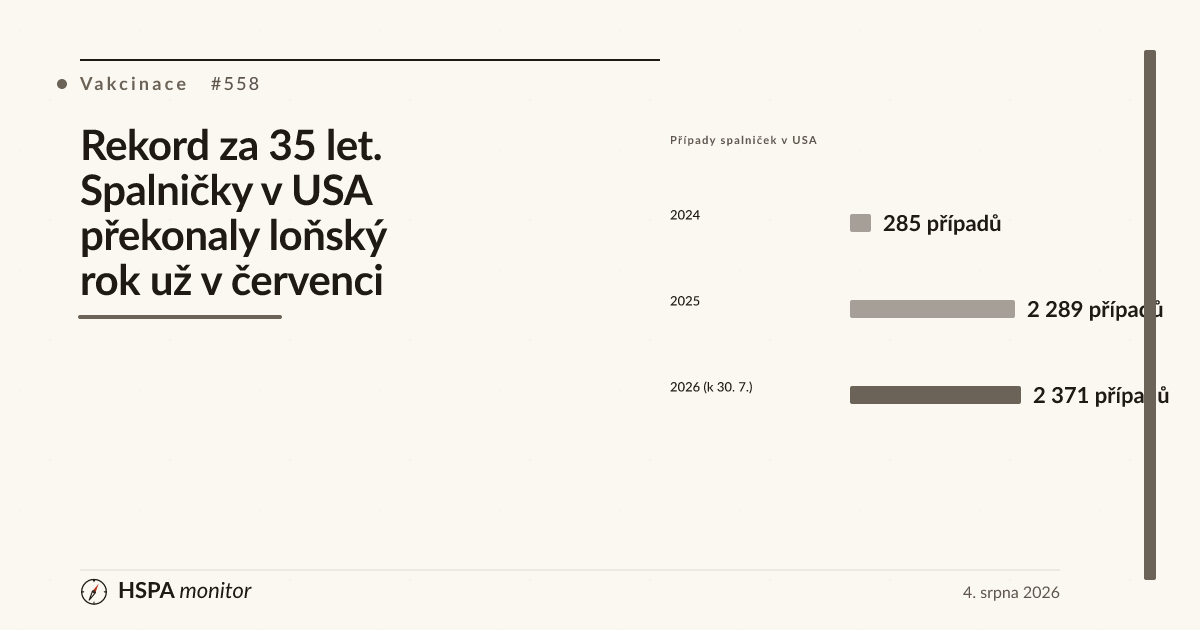
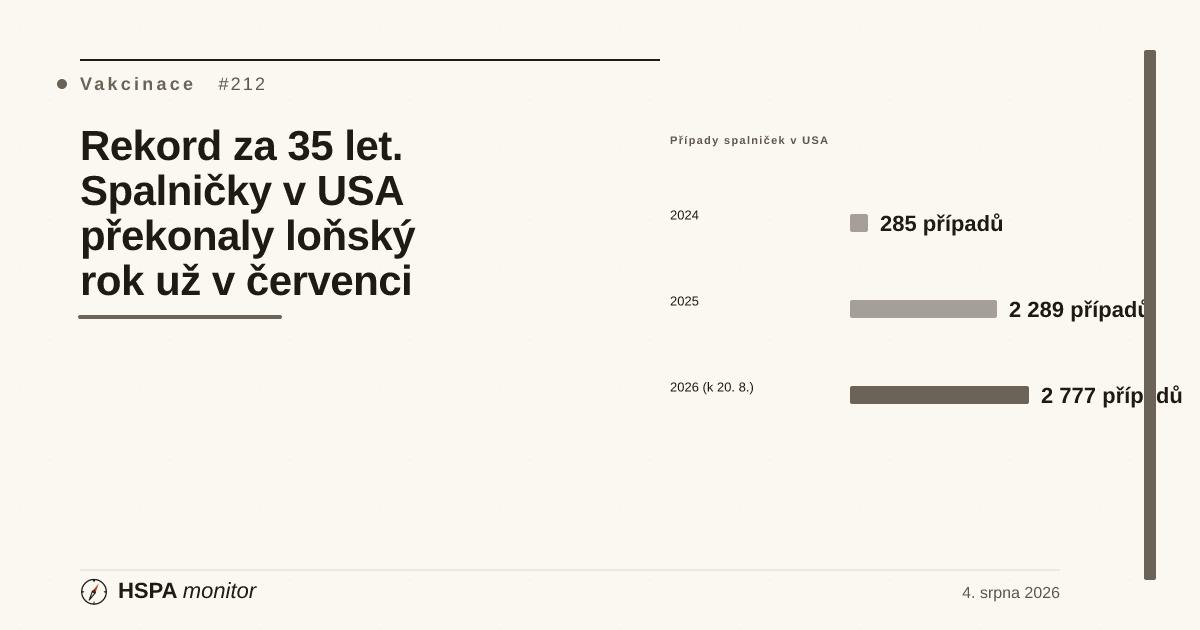
fix(clanky): noční revize spalnicky-usa-2026 — nová vlna dat CDC (2 566 → 2 777)
FÁZE 3.2. Primární zdroj: CDC, Measles Cases and Outbreaks
(cdc.gov/measles/data-research, staženo 23. 8. 2026, hlavička
"Updated: August 21, 2026"). Doslovně: "As of August 20, 2026, 2,777
confirmed* measles cases were reported in the United States in 2026",
"2,761 measles cases were reported by 47 jurisdictions", "36 new
outbreaks** reported in 2026, and 94% of confirmed cases (2,614 of 2,777)
are outbreak-associated (1,239 from outbreaks starting in 2026 and 1,375
from outbreaks that started in 2025)".

Změněno proti stavu k 13. 8. 2026: 2 566 → 2 777 případů; 2 550 → 2 761
hlášeno jurisdikcemi; 38 → 36 ohnisek; 2 407/2 566 → 2 614/2 777.
Pokles počtu ohnisek je zpětná revize kumulativního počtu CDC, ne pokles
nákazy — v textu je to explicitně vysvětleno, aby to nevyznělo obráceně.
Nově doplněn rozpad ohniskových případů podle roku vzniku ohniska.

Srovnáno: meta description, og:description, JSON-LD, perex, av-counter,
obě figure-note, řádek tabulky, věta v historické perspektivě, blok Zdroje;
cover přegenerován. Beze změny: 47 jurisdikcí, 16 zahraničních návštěvníků,
titulek, 2025 = 2 289, proočkovanost 92,5 %, kanadská, evropská i česká data.

audit-status zůstává review-pending, published zůstává true.

Claude-Session: https://claude.ai/code/session_017Qd712dcLe1ZaJTNRWL23A

diff --git a/05_M1_Starter/clanek-spalnicky-usa-2026.html b/05_M1_Starter/clanek-spalnicky-usa-2026.html
@@ -3,9 +3,10 @@
 <head>
 <!--
   audit:
-    last_reviewed: 2026-08-20
+    last_reviewed: 2026-08-23
     reviewer: claude-code-agent
     status: review-pending
+    nightly_2026-08-23: "NOČNÍ REVIZE (FÁZE 3.2) — nová vlna dat CDC. ZDROJ (primární): CDC, Measles Cases and Outbreaks (https://www.cdc.gov/measles/data-research/index.html, staženo 23. 8. 2026, hlavička „Updated: August 21, 2026\"). Doslovně: 'As of August 20, 2026, 2,777 confirmed* measles cases were reported in the United States in 2026.' — 'Among these, 2,761 measles cases were reported by 47 jurisdictions' + 'A total of 16 measles cases were reported among international visitors' — 'There have been 36 new outbreaks** reported in 2026, and 94% of confirmed cases (2,614 of 2,777) are outbreak-associated (1,239 from outbreaks starting in 2026 and 1,375 from outbreaks that started in 2025)'. ZMĚNĚNO proti stavu k 13. 8. 2026: 2 566 → 2 777 případů; 2 550 → 2 761 hlášeno jurisdikcemi; 38 → 36 ohnisek (CDC kumulativní počet revidoval DOLŮ — v textu explicitně vysvětleno jako zpětná revize, nikoli jako pokles nákazy); 2 407/2 566 → 2 614/2 777 při nezměněných 94 %; nově doplněn rozpad ohniskových případů 1 239 (ohniska 2026) / 1 375 (ohniska 2025). Srovnáno: meta description, og:description, JSON-LD description, perex, av-counter (data-value i popisek), obě figure-note, řádek tabulky, věta v historické perspektivě („dva a půl tisíce\" → „necelé tři tisíce\"), blok Zdroje; dále perex a cover_viz v data/articles.json (max osy 2500 → 2800, aby sloupec 2 777 nepřetékal) a claim spalnicky-usa-2026--01 v data/claims.json; cover přegenerován. NEZMĚNĚNO: 47 jurisdikcí a 16 zahraničních návštěvníků (beze změny), titulek, 2025 = 2 289, proočkovanost 92,5 %, kanadská, evropská i česká data — u těch se zdroj nezměnil. Pozn. k síti: cdc.gov odmítá curl (Akamai), načteno přes WebFetch; kontrolní dotaz na doslovné znění proveden zvlášť a čísla se shodovala. Status review-pending, published zůstává true."
     nightly_2026-08-20: "NOČNÍ REVIZE (FÁZE 3.1) — date-passed (13. 8. 2026). ZDROJ (primární): CDC, Measles Cases and Outbreaks (https://www.cdc.gov/measles/data-research/index.html, kontrola 20. 8. 2026). VÝSLEDEK: beze změny — stránka stále uvádí doslova „As of August 13, 2026, 2,566 confirmed* measles cases were reported in the United States in 2026\", 38 nových ohnisek a 94 % případů (2 407 z 2 566) vázaných na ohnisko; hlavička nese „Updated: August 14, 2026\" a poznámku, že se data aktualizují k poledni ve čtvrtek. Datum 13. 8. v článku tedy není zastaralý údaj, ale poslední publikovaný stav zdroje. ZMĚNĚNO: pouze doplněno datum re-verifikace do figure-note. NEZMĚNĚNO: žádné číslo ani formulace. Status zůstává review-pending."
     created_at: 2026-08-03
     nightly_2026-08-17: "NOČNÍ REVIZE (FÁZE 3.2) — aktualizace centrálního KPI proti primárnímu zdroji. CDC, Measles Cases and Outbreaks (cdc.gov/measles/data-research, staženo 17. 8. 2026) uvádí doslovně: 'As of August 13, 2026, 2,566 confirmed* measles cases were reported in the United States in 2026.' — 'Among these, 2,550 measles cases were reported by 47 jurisdictions' — 'There have been 38 new outbreaks** reported in 2026' — '94% of confirmed cases (2,407 of 2,566) are outbreak-associated'. ZMĚNĚNO proti stavu k 30. 7. 2026: 2 371 → 2 566 případů; 45 → 47 jurisdikcí (nově explicitně 2 550 hlášeno jurisdikcemi + 16 zahraničních návštěvníků); 37 → 38 ohnisek; 94 % z 2 219/2 371 → 2 407/2 566. Srovnáno na všech místech: meta description, og:description, JSON-LD description, perex, av-counter (data-value i popisek), obě figure-note, řádek tabulky '2026 (k 13. 8.)', věta v historické perspektivě, blok Zdroje; dále perex a cover_viz v data/articles.json a claim spalnicky-usa-2026--01 v data/claims.json. NEZMĚNĚNO: titulek ('překonaly loňský rok už v červenci' platí dál — rekord 2 289 padl v červenci), 2025 = 2 289, proočkovanost 92,5 %, ohniska Jižní Karolína/Utah/Texas, kanadská a evropská čísla, česká data — u těch se zdroj nezměnil. Údaj za 2026 zůstává průběžný (year-to-date) a podléhá zpětné revizi CDC. Pozn. k síti: cdc.gov odmítá curl (Akamai 'Access Denied'), načteno přes WebFetch; kontrolní dotaz na doslovné citace proveden zvlášť a čísla se shodovala. Status review-pending, published zůstává true."
@@ -30,11 +31,11 @@
 <meta charset="UTF-8">
 <meta name="viewport" content="width=device-width, initial-scale=1.0">
 <title>Rekord za 35 let. Spalničky v USA překonaly loňský rok už v červenci · HSPA Monitor</title>
-<meta name="description" content="K 13. srpnu 2026 evidují USA 2 566 potvrzených případů spalniček — víc než za celý loňský rok a nejvíc od roku 1991. Proočkovanost MMR u předškoláků klesla na 92,5 %, práh kolektivní imunity je 95 %. Kanada už status eliminace ztratila. Co z toho plyne pro Evropu a Česko.">
+<meta name="description" content="K 20. srpnu 2026 evidují USA 2 777 potvrzených případů spalniček — víc než za celý loňský rok a nejvíc od roku 1991. Proočkovanost MMR u předškoláků klesla na 92,5 %, práh kolektivní imunity je 95 %. Kanada už status eliminace ztratila. Co z toho plyne pro Evropu a Česko.">
 <meta name="robots" content="index, follow">
 <meta property="og:type" content="article">
 <meta property="og:title" content="Rekord za 35 let. Spalničky v USA překonaly loňský rok už v červenci">
-<meta property="og:description" content="2 566 případů k 13. 8. 2026 — nejvíc od roku 1991. Proočkovanost 92,5 % proti prahu 95 %. Kanada ztratila status eliminace, USA o něm rozhodují na podzim. Co to znamená pro Česko.">
+<meta property="og:description" content="2 777 případů k 20. 8. 2026 — nejvíc od roku 1991. Proočkovanost 92,5 % proti prahu 95 %. Kanada ztratila status eliminace, USA o něm rozhodují na podzim. Co to znamená pro Česko.">
 <meta property="og:locale" content="cs_CZ">
 <meta property="article:published_time" content="2026-08-04">
 <meta property="article:section" content="Prevence">
@@ -60,7 +61,7 @@
       "@type": "NewsArticle",
       "@id": "https://skorezdravotnictvi.cz/clanek-spalnicky-usa-2026#article",
       "headline": "Rekord za 35 let. Spalničky v USA překonaly loňský rok už v červenci",
-      "description": "K 13. srpnu 2026 evidují USA 2 566 potvrzených případů spalniček — víc než za celý loňský rok a nejvíc od roku 1991. Proočkovanost MMR u předškoláků klesla na 92,5 % proti prahu kolektivní imunity 95 %. Kanada status eliminace už ztratila, Spojené státy o něm rozhodnou v listopadu. Co z toho plyne pro Evropu a pro Česko, kde druhá dávka MMR hranice 95 % nikdy nedosáhla.",
+      "description": "K 20. srpnu 2026 evidují USA 2 777 potvrzených případů spalniček — víc než za celý loňský rok a nejvíc od roku 1991. Proočkovanost MMR u předškoláků klesla na 92,5 % proti prahu kolektivní imunity 95 %. Kanada status eliminace už ztratila, Spojené státy o něm rozhodnou v listopadu. Co z toho plyne pro Evropu a pro Česko, kde druhá dávka MMR hranice 95 % nikdy nedosáhla.",
       "inLanguage": "cs-CZ",
       "image": [
         "https://skorezdravotnictvi.cz/assets/covers/clanek-spalnicky-usa-2026.png"
@@ -149,7 +150,7 @@
       </div>
       <h1 class="article-title">Rekord za 35 let. Spalničky v USA překonaly loňský rok už v červenci</h1>
       <p class="article-deck">
-        Spojené státy evidovaly k <strong>13. srpnu 2026</strong> podle amerického Střediska pro kontrolu a prevenci nemocí (CDC) <strong>2 566 potvrzených případů spalniček</strong>. Loňský celoroční rekord 2 289 případů tak padl ještě před koncem července — a jde o nejvyšší roční číslo od roku 1991. Souvislost není záhadná: proočkovanost dětí vakcínou MMR před nástupem do školy klesla na <strong>92,5 %</strong>, zatímco práh, pod kterým spalničky začnou nacházet neimunní hostitele, leží na <strong>95 %</strong>. Kanada kvůli témuž status „země bez spalniček" už loni v listopadu ztratila. Text shrnuje, co je doloženo, kde je spor — a co z americké zkušenosti plyne pro Evropu a Česko.
+        Spojené státy evidovaly k <strong>20. srpnu 2026</strong> podle amerického Střediska pro kontrolu a prevenci nemocí (CDC) <strong>2 777 potvrzených případů spalniček</strong>. Loňský celoroční rekord 2 289 případů tak padl ještě před koncem července — a jde o nejvyšší roční číslo od roku 1991. Souvislost není záhadná: proočkovanost dětí vakcínou MMR před nástupem do školy klesla na <strong>92,5 %</strong>, zatímco práh, pod kterým spalničky začnou nacházet neimunní hostitele, leží na <strong>95 %</strong>. Kanada kvůli témuž status „země bez spalniček" už loni v listopadu ztratila. Text shrnuje, co je doloženo, kde je spor — a co z americké zkušenosti plyne pro Evropu a Česko.
       </p>
       <div class="article-meta">
         <span class="article-meta-date">4. srpna 2026</span>
@@ -170,8 +171,8 @@
         <figcaption class="av-figure-h" id="avUsaHeroH">Spalničky v USA 2026 — klíčová čísla</figcaption>
         <div class="av-counter-grid">
           <div class="av-counter-block av-counter-block-bad">
-            <span class="av-counter" data-value="2566">2 566</span>
-            <span class="av-counter-label">potvrzených případů v USA (k 13. 8. 2026)</span>
+            <span class="av-counter" data-value="2777">2 777</span>
+            <span class="av-counter-label">potvrzených případů v USA (k 20. 8. 2026)</span>
             <span class="av-counter-foot">CDC · nejvíc od roku 1991</span>
           </div>
           <div class="av-counter-block av-counter-block-bad">
@@ -190,13 +191,13 @@
             <span class="av-counter-foot">CDC · 94 % případů vázáno na ohniska</span>
           </div>
         </div>
-        <p class="av-figure-note"><strong>Zdroje:</strong> US Centers for Disease Control and Prevention — <em>Measles Cases and Outbreaks</em> (stav k 13. 8. 2026, staženo 17. 8. 2026, znovu ověřeno 20. 8. 2026 — stránka nese „Updated: August 14, 2026“ a týž počet); CDC SchoolVaxView — <em>Vaccination Coverage and Exemptions among Kindergartners</em>, školní rok 2024/25. Údaj za rok 2026 je průběžný (year-to-date), ne celoroční; potvrzené případy podléhají zpětné revizi.</p>
+        <p class="av-figure-note"><strong>Zdroje:</strong> US Centers for Disease Control and Prevention — <em>Measles Cases and Outbreaks</em> (stav k 20. 8. 2026, staženo 23. 8. 2026 — stránka nese „Updated: August 21, 2026“); CDC SchoolVaxView — <em>Vaccination Coverage and Exemptions among Kindergartners</em>, školní rok 2024/25. Údaj za rok 2026 je průběžný (year-to-date), ne celoroční; potvrzené případy podléhají zpětné revizi.</p>
       </figure>
 
       <h3>Co přesně říkají čísla</h3>
 
       <p>
-        Americká evidence spalniček je veřejná a aktualizuje se týdně, takže o základní faktografii se nevede spor. K 13. srpnu 2026 CDC eviduje <strong>2 566 potvrzených případů</strong>, z nichž 2 550 nahlásilo <strong>47 jurisdikcí</strong> (státy, District of Columbia a New York City) a 16 připadá na zahraniční návštěvníky. V roce 2026 bylo hlášeno <strong>38 nových ohnisek</strong> a <strong>94 % případů</strong> (2 407 z 2 566) je na některé z ohnisek vázáno. To je zásadní údaj: neznamená to rozptýlené importy z ciziny, ale řetězce domácího přenosu.
+        Americká evidence spalniček je veřejná a aktualizuje se týdně, takže o základní faktografii se nevede spor. K 20. srpnu 2026 CDC eviduje <strong>2 777 potvrzených případů</strong>, z nichž 2 761 nahlásilo <strong>47 jurisdikcí</strong> (státy, District of Columbia a New York City) a 16 připadá na zahraniční návštěvníky. V roce 2026 bylo hlášeno <strong>36 nových ohnisek</strong> a <strong>94 % případů</strong> (2 614 z 2 777) je na některé z ohnisek vázáno — 1 239 na ohniska, která začala v roce 2026, a 1 375 na ohniska přenesená z roku 2025. To je zásadní údaj: neznamená to rozptýlené importy z ciziny, ale řetězce domácího přenosu. Počet ohnisek přitom oproti stavu k 13. srpnu klesl z 38 na 36 — kumulativní počty CDC podléhají zpětné revizi, jak jurisdikce dohlašují a překlasifikovávají případy.
       </p>
 
       <p>
@@ -241,18 +242,18 @@
                 <td>Nejvíc od roku 1992; epidemie odstartovala v západním Texasu v lednu</td>
               </tr>
               <tr class="av-row-bad">
-                <td><strong>2026 (k 13. 8.)</strong></td>
-                <td class="num"><strong>2 566</strong></td>
+                <td><strong>2026 (k 20. 8.)</strong></td>
+                <td class="num"><strong>2 777</strong></td>
                 <td><strong>Loňské celoroční číslo překonáno už v červenci</strong>; nejvíc od roku 1991</td>
               </tr>
             </tbody>
           </table>
         </div>
-        <p class="av-figure-note"><strong>Zdroje:</strong> CDC — <em>Measles Cases and Outbreaks</em> a <em>History of Measles</em>; CDC MMWR — <em>National Update on Measles Cases and Outbreaks, United States, 2019</em>. Hodnota za 2026 je průběžná k 13. 8. 2026. Rok 2000 nemá v tabulce počet záměrně — jde o milník eliminace, ne o srovnatelný datový bod.</p>
+        <p class="av-figure-note"><strong>Zdroje:</strong> CDC — <em>Measles Cases and Outbreaks</em> a <em>History of Measles</em>; CDC MMWR — <em>National Update on Measles Cases and Outbreaks, United States, 2019</em>. Hodnota za 2026 je průběžná k 20. 8. 2026. Rok 2000 nemá v tabulce počet záměrně — jde o milník eliminace, ne o srovnatelný datový bod.</p>
       </figure>
 
       <p>
-        Pro pořádek patří k číslům i historická perspektiva, protože bez ní vypadá 2 566 případů buď jako málo, nebo jako konec světa — podle toho, co si čtenář přinese. Před zavedením vakcíny v roce 1963 onemocnělo v USA odhadem <strong>3 až 4 miliony lidí ročně</strong>, zhruba <strong>48 000 jich bylo hospitalizováno</strong> a <strong>400 až 500 jich zemřelo</strong>. Proti tomu jsou dnešní počty zlomkem. Jenže srovnávat je třeba s posledními dvěma dekádami, ne s érou před očkováním: mezi lety 2000 a 2024 se USA držely v řádu desítek až nižších stovek případů ročně a opakovaně pod stovkou. Skok na dva a půl tisíce je proto návratem o generaci zpátky, ne návratem do 50. let.
+        Pro pořádek patří k číslům i historická perspektiva, protože bez ní vypadá 2 777 případů buď jako málo, nebo jako konec světa — podle toho, co si čtenář přinese. Před zavedením vakcíny v roce 1963 onemocnělo v USA odhadem <strong>3 až 4 miliony lidí ročně</strong>, zhruba <strong>48 000 jich bylo hospitalizováno</strong> a <strong>400 až 500 jich zemřelo</strong>. Proti tomu jsou dnešní počty zlomkem. Jenže srovnávat je třeba s posledními dvěma dekádami, ne s érou před očkováním: mezi lety 2000 a 2024 se USA držely v řádu desítek až nižších stovek případů ročně a opakovaně pod stovkou. Skok k necelým třem tisícům je proto návratem o generaci zpátky, ne návratem do 50. let.
       </p>
 
       <h3>Proč právě u spalniček stačí tak málo</h3>
@@ -669,7 +670,7 @@
       <h4 class="article-sources-h">Primární data a odborné zdroje</h4>
       <ul class="article-sources-list">
         <li>
-          <strong>CDC — Measles Cases and Outbreaks (stav k 13. 8. 2026)</strong><br>
+          <strong>CDC — Measles Cases and Outbreaks (stav k 20. 8. 2026)</strong><br>
           <a href="https://www.cdc.gov/measles/data-research/index.html" rel="noopener noreferrer" target="_blank">cdc.gov/measles/data-research</a> · primární zdroj počtu případů 2026, ohnisek, jurisdikcí a podílu neočkovaných
         </li>
         <li>
